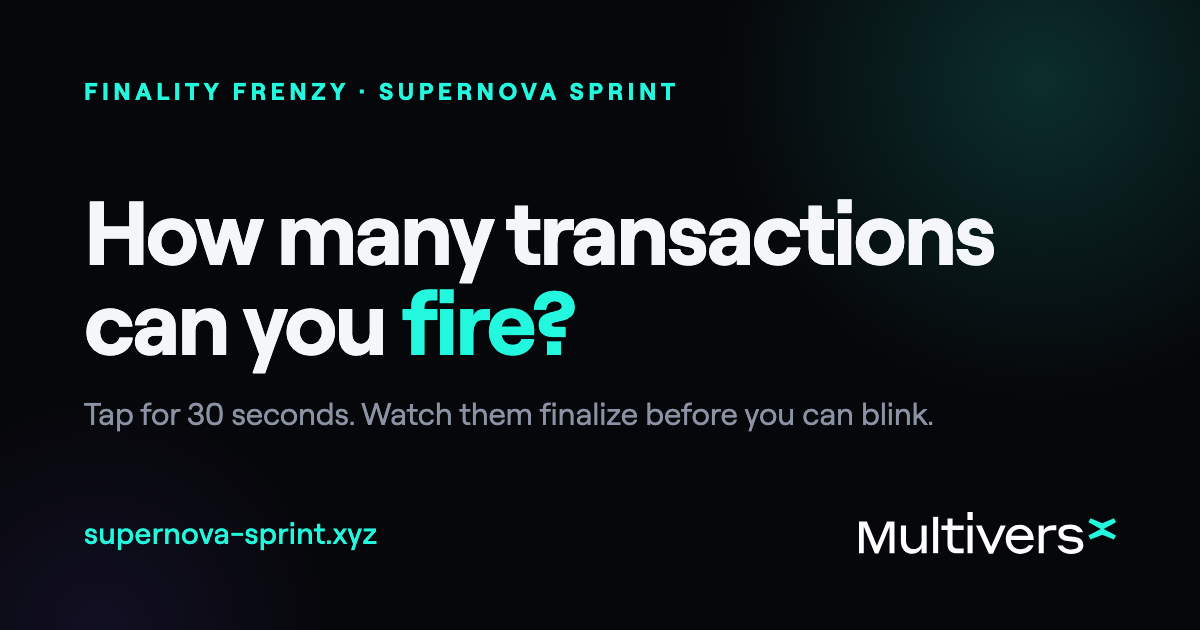
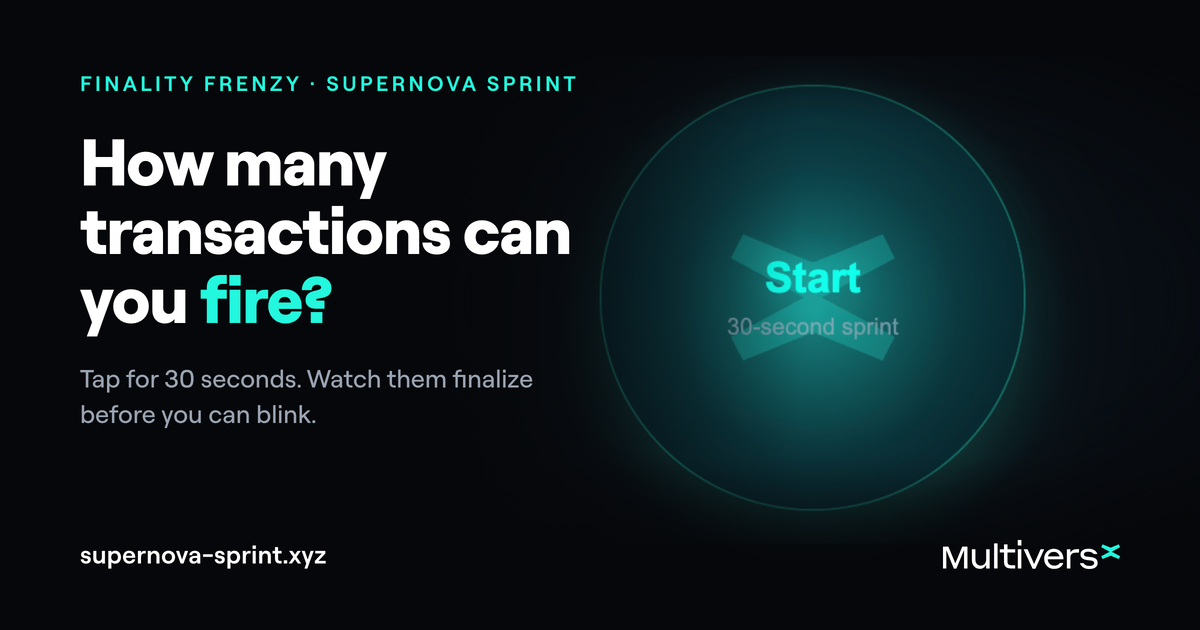
onchain: fix mobile feed layout-shift (reserve fixed feed height); share text to fire-on-Supernova; ship updated OG image

diff --git a/public/onchain.html b/public/onchain.html
@@ -196,7 +196,7 @@ body{
 .feed h2{font-size:12px;font-weight:600;letter-spacing:.02em;color:var(--text-dim);margin-bottom:4px;display:flex;align-items:center;justify-content:space-between;}
 .feed h2 .legend{font-family:var(--mono);font-size:9.5px;font-weight:500;color:var(--text-faint);text-transform:none;letter-spacing:0;}
 .feed-note{font-size:10.5px;line-height:1.45;color:var(--text-faint);margin:0 0 8px;}
-.feed-list{display:flex;flex-direction:column;}
+.feed-list{display:flex;flex-direction:column;height:188px;overflow-y:auto;overscroll-behavior:contain;}
 .feed-empty{font-size:12.5px;color:var(--text-faint);padding:14px 2px 16px;text-align:center;}
 .tx-row{display:flex;align-items:center;gap:10px;padding:9px 2px;border-bottom:1px solid var(--border-soft);}
 .tx-row:last-child{border-bottom:none;}
@@ -2022,7 +2022,7 @@ function lbRenderLeaderboard(entries){
 function sprintShare(){
   var score = ST.sprint.finalized;   // N_real — confirmed onchain in the 30s (the honest number)
   var lines = [
-    score + ' of my taps confirmed onchain on MultiversX testnet in 30 seconds. Real transactions, watched them land live.'
+    'Fired ' + score + ' real transactions on Supernova in 30 seconds. All confirmed onchain, watched them land live.'
   ];
   // add the simulated cross-chain line if we have it (clearly labeled)
   if(simResult){